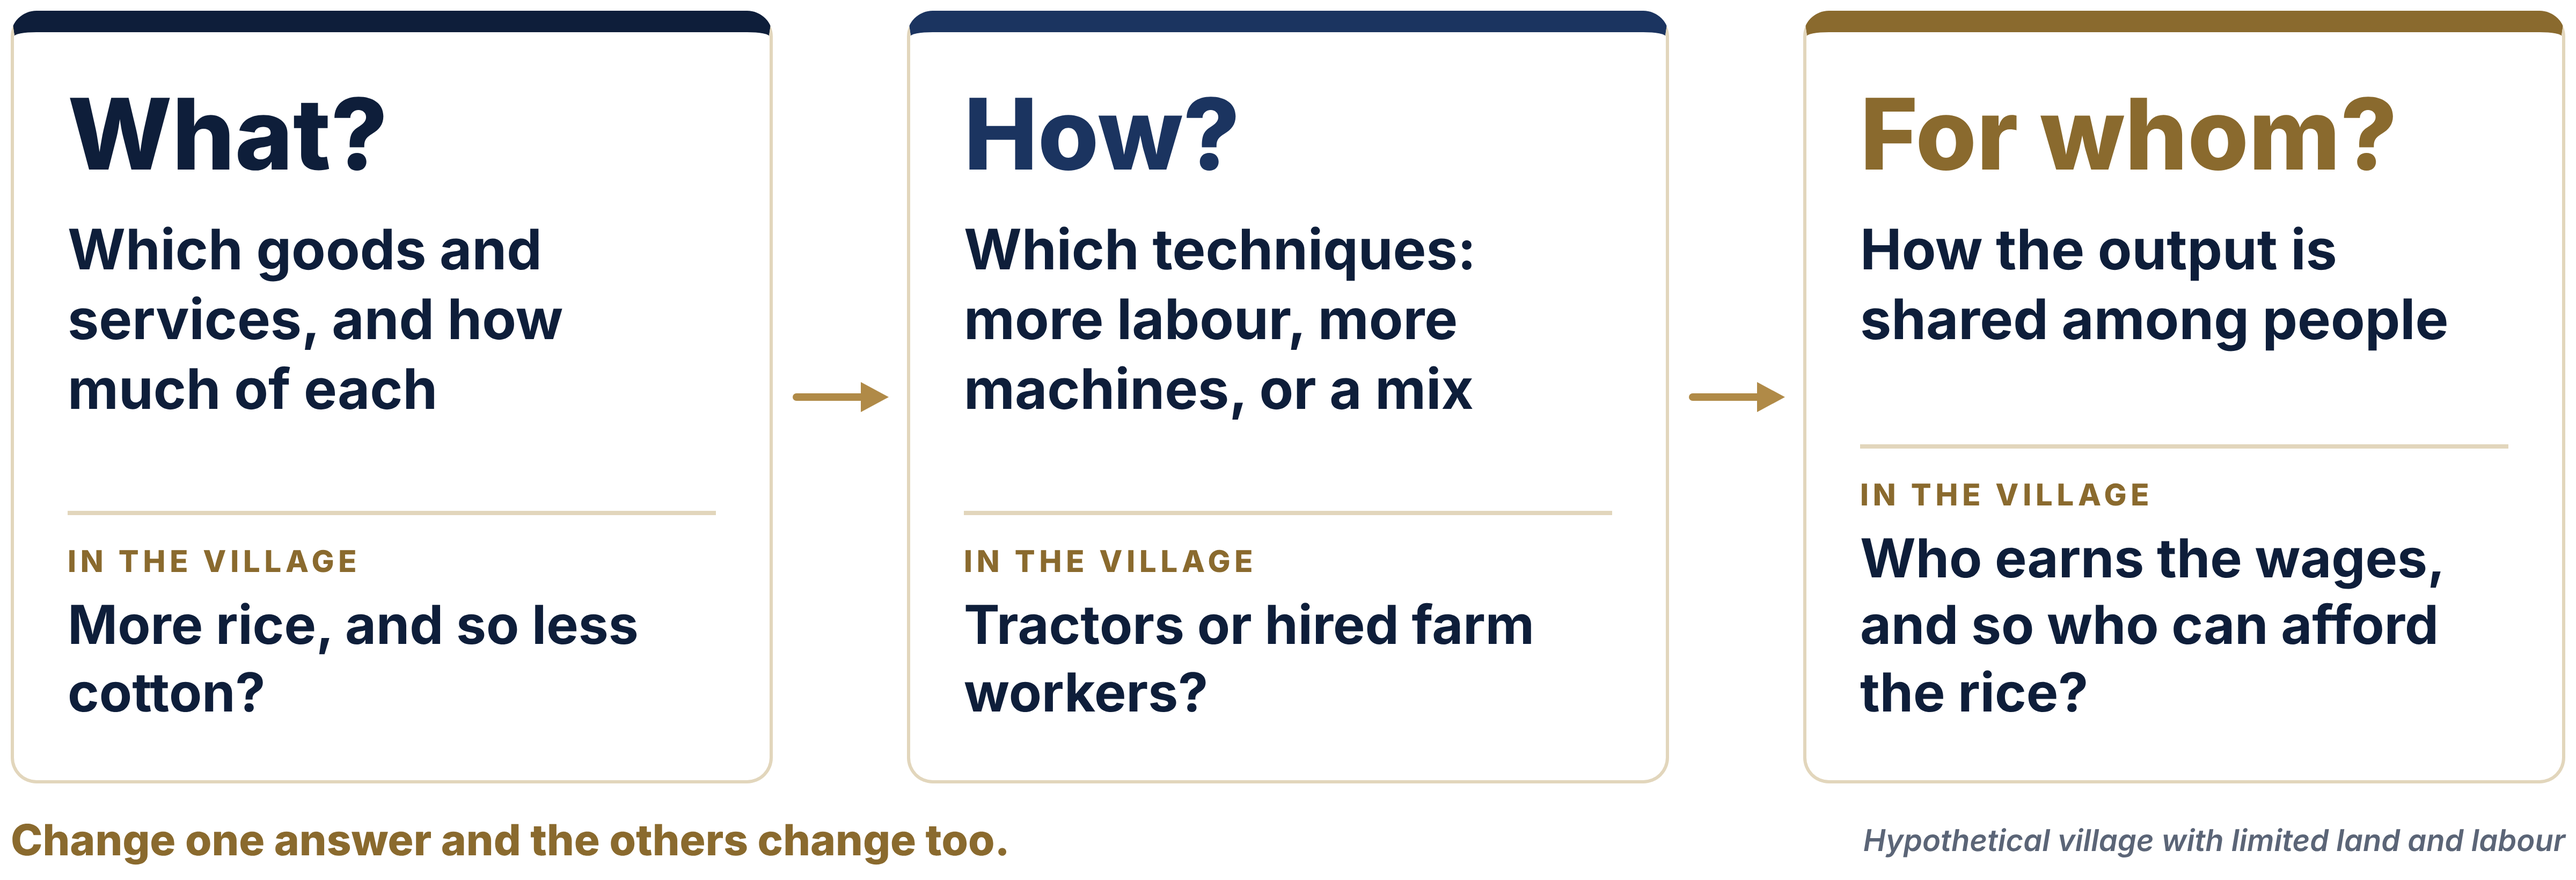
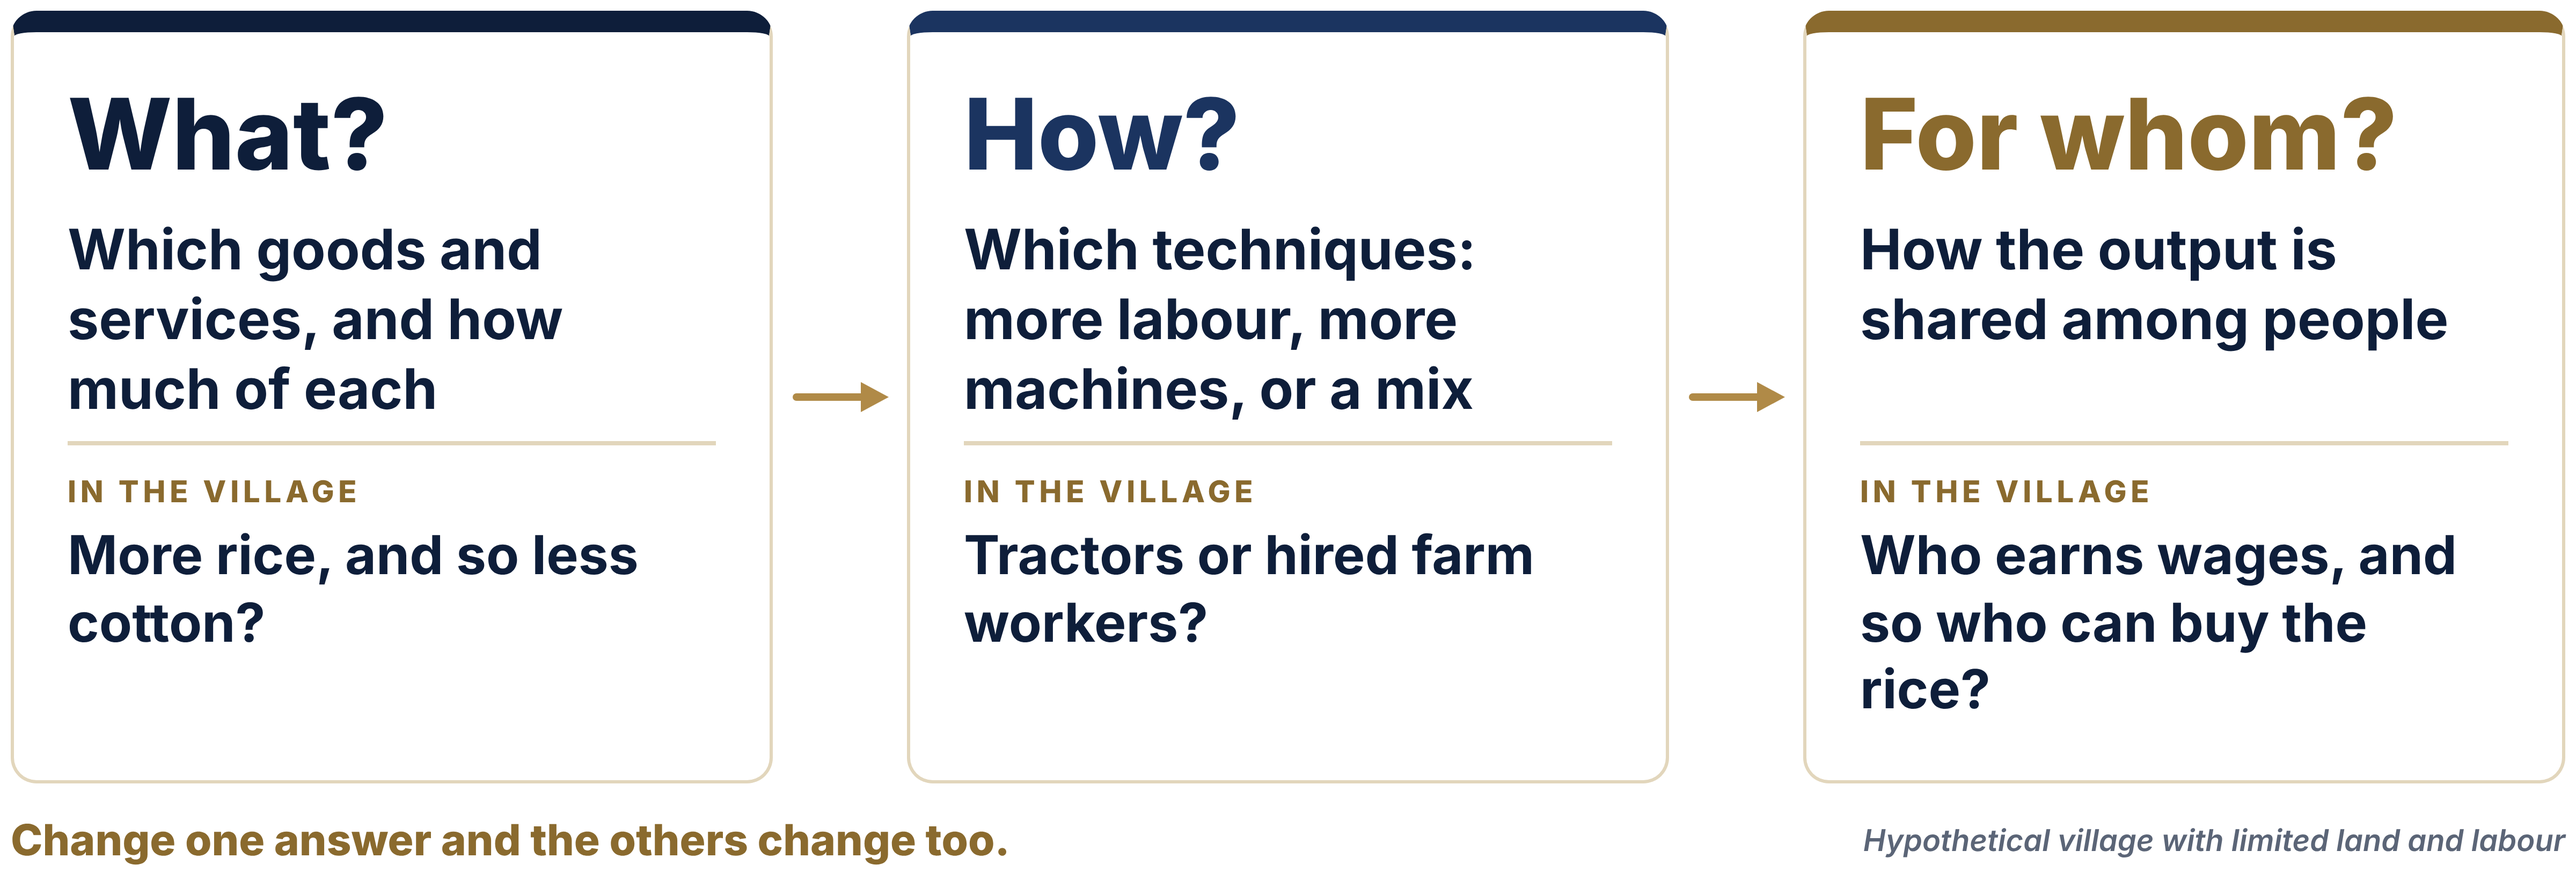
UPSC Economics Section I: align example rows in the three-questions graphic
Claude-Session: https://claude.ai/code/session_01RLiD2gmov7MXXhnmF6Br24

diff --git a/presentation-assets/upsc-economics-first-principles/v3/html/V05b_Three_Questions.html b/presentation-assets/upsc-economics-first-principles/v3/html/V05b_Three_Questions.html
@@ -10,4 +10,4 @@ body{font-family:Inter,'DejaVu Sans',sans-serif;color:var(--ink);-webkit-font-sm
 .navy{background:var(--ink);color:#fff;border-radius:24px}
 .muted{color:var(--muted)}
 .tag{font-style:italic;color:var(--muted);font-weight:600}
-</style></head><body data-size="2400x860"><div class="wrap" style="width:2400px;height:860px;padding:10px"><div style="display:flex;justify-content:space-between;align-items:center"><div class="card" style="width:710px;height:720px;padding:50px 50px;display:flex;flex-direction:column;border-top:20px solid #0E1E3A"><div style="font-size:92px;font-weight:850;color:#0E1E3A;line-height:1">What?</div><div style="font-size:52px;font-weight:700;margin-top:28px;line-height:1.25">Which goods and services, and how much of each</div><div style="flex:1"></div><div style="height:4px;background:#E2D6BC;margin-bottom:26px"></div><div class="cap" style="font-size:28px;margin-bottom:12px">In the village</div><div style="font-size:50px;font-weight:650;line-height:1.25">More rice, and so less cotton?</div></div><svg width="90" height="40" viewBox="0 0 90 40"><line x1="4" y1="20" x2="64" y2="20" stroke="#B08A47" stroke-width="7" stroke-linecap="round"/><path d="M64,6 L90,20 L64,34 z" fill="#B08A47"/></svg><div class="card" style="width:710px;height:720px;padding:50px 50px;display:flex;flex-direction:column;border-top:20px solid #1B3460"><div style="font-size:92px;font-weight:850;color:#1B3460;line-height:1">How?</div><div style="font-size:52px;font-weight:700;margin-top:28px;line-height:1.25">Which techniques: more labour, more machines, or a mix</div><div style="flex:1"></div><div style="height:4px;background:#E2D6BC;margin-bottom:26px"></div><div class="cap" style="font-size:28px;margin-bottom:12px">In the village</div><div style="font-size:50px;font-weight:650;line-height:1.25">Tractors or hired farm workers?</div></div><svg width="90" height="40" viewBox="0 0 90 40"><line x1="4" y1="20" x2="64" y2="20" stroke="#B08A47" stroke-width="7" stroke-linecap="round"/><path d="M64,6 L90,20 L64,34 z" fill="#B08A47"/></svg><div class="card" style="width:710px;height:720px;padding:50px 50px;display:flex;flex-direction:column;border-top:20px solid #8A6A2E"><div style="font-size:92px;font-weight:850;color:#8A6A2E;line-height:1">For whom?</div><div style="font-size:52px;font-weight:700;margin-top:28px;line-height:1.25">How the output is shared among people</div><div style="flex:1"></div><div style="height:4px;background:#E2D6BC;margin-bottom:26px"></div><div class="cap" style="font-size:28px;margin-bottom:12px">In the village</div><div style="font-size:50px;font-weight:650;line-height:1.25">Who earns the wages, and so who can afford the rice?</div></div></div><div style="margin-top:28px;display:flex;justify-content:space-between;align-items:center"><div style="font-size:40px;font-weight:800;color:#8A6A2E">Change one answer and the others change too.</div><div class="tag" style="font-size:28px">Hypothetical village with limited land and labour</div></div></div></body></html>
+</style></head><body data-size="2400x860"><div class="wrap" style="width:2400px;height:860px;padding:10px"><div style="display:flex;justify-content:space-between;align-items:center"><div class="card" style="width:710px;height:720px;padding:50px 50px;display:flex;flex-direction:column;border-top:20px solid #0E1E3A"><div style="font-size:92px;font-weight:850;color:#0E1E3A;line-height:1">What?</div><div style="font-size:52px;font-weight:700;margin-top:28px;line-height:1.25">Which goods and services, and how much of each</div><div style="flex:1"></div><div style="height:4px;background:#E2D6BC;margin-bottom:26px"></div><div class="cap" style="font-size:28px;margin-bottom:12px">In the village</div><div style="font-size:50px;font-weight:650;line-height:1.25;height:190px">More rice, and so less cotton?</div></div><svg width="90" height="40" viewBox="0 0 90 40"><line x1="4" y1="20" x2="64" y2="20" stroke="#B08A47" stroke-width="7" stroke-linecap="round"/><path d="M64,6 L90,20 L64,34 z" fill="#B08A47"/></svg><div class="card" style="width:710px;height:720px;padding:50px 50px;display:flex;flex-direction:column;border-top:20px solid #1B3460"><div style="font-size:92px;font-weight:850;color:#1B3460;line-height:1">How?</div><div style="font-size:52px;font-weight:700;margin-top:28px;line-height:1.25">Which techniques: more labour, more machines, or a mix</div><div style="flex:1"></div><div style="height:4px;background:#E2D6BC;margin-bottom:26px"></div><div class="cap" style="font-size:28px;margin-bottom:12px">In the village</div><div style="font-size:50px;font-weight:650;line-height:1.25;height:190px">Tractors or hired farm workers?</div></div><svg width="90" height="40" viewBox="0 0 90 40"><line x1="4" y1="20" x2="64" y2="20" stroke="#B08A47" stroke-width="7" stroke-linecap="round"/><path d="M64,6 L90,20 L64,34 z" fill="#B08A47"/></svg><div class="card" style="width:710px;height:720px;padding:50px 50px;display:flex;flex-direction:column;border-top:20px solid #8A6A2E"><div style="font-size:92px;font-weight:850;color:#8A6A2E;line-height:1">For whom?</div><div style="font-size:52px;font-weight:700;margin-top:28px;line-height:1.25">How the output is shared among people</div><div style="flex:1"></div><div style="height:4px;background:#E2D6BC;margin-bottom:26px"></div><div class="cap" style="font-size:28px;margin-bottom:12px">In the village</div><div style="font-size:50px;font-weight:650;line-height:1.25;height:190px">Who earns wages, and so who can buy the rice?</div></div></div><div style="margin-top:28px;display:flex;justify-content:space-between;align-items:center"><div style="font-size:40px;font-weight:800;color:#8A6A2E">Change one answer and the others change too.</div><div class="tag" style="font-size:28px">Hypothetical village with limited land and labour</div></div></div></body></html>

diff --git a/presentation-assets/upsc-economics-first-principles/v3/source/build_html_v3b.py b/presentation-assets/upsc-economics-first-principles/v3/source/build_html_v3b.py
@@ -30,13 +30,13 @@ card = lambda q, s, ex, c: (f'<div class="card" style="width:710px;height:720px;
                             f'<div style="font-size:52px;font-weight:700;margin-top:28px;line-height:1.25">{s}</div>'
                             f'<div style="flex:1"></div><div style="height:4px;background:#E2D6BC;margin-bottom:26px"></div>'
                             f'<div class="cap" style="font-size:28px;margin-bottom:12px">In the village</div>'
-                            f'<div style="font-size:50px;font-weight:650;line-height:1.25">{ex}</div></div>')
+                            f'<div style="font-size:50px;font-weight:650;line-height:1.25;height:190px">{ex}</div></div>')
 body = ('<div style="display:flex;justify-content:space-between;align-items:center">'
         + card("What?", "Which goods and services, and how much of each", "More rice, and so less cotton?", "#0E1E3A")
         + arrow(90, "#B08A47")
         + card("How?", "Which techniques: more labour, more machines, or a mix", "Tractors or hired farm workers?", "#1B3460")
         + arrow(90, "#B08A47")
-        + card("For whom?", "How the output is shared among people", "Who earns the wages, and so who can afford the rice?", "#8A6A2E")
+        + card("For whom?", "How the output is shared among people", "Who earns wages, and so who can buy the rice?", "#8A6A2E")
         + '</div><div style="margin-top:28px;display:flex;justify-content:space-between;align-items:center">'
         '<div style="font-size:40px;font-weight:800;color:#8A6A2E">Change one answer and the others change too.</div>'
         '<div class="tag" style="font-size:28px">Hypothetical village with limited land and labour</div></div>')
